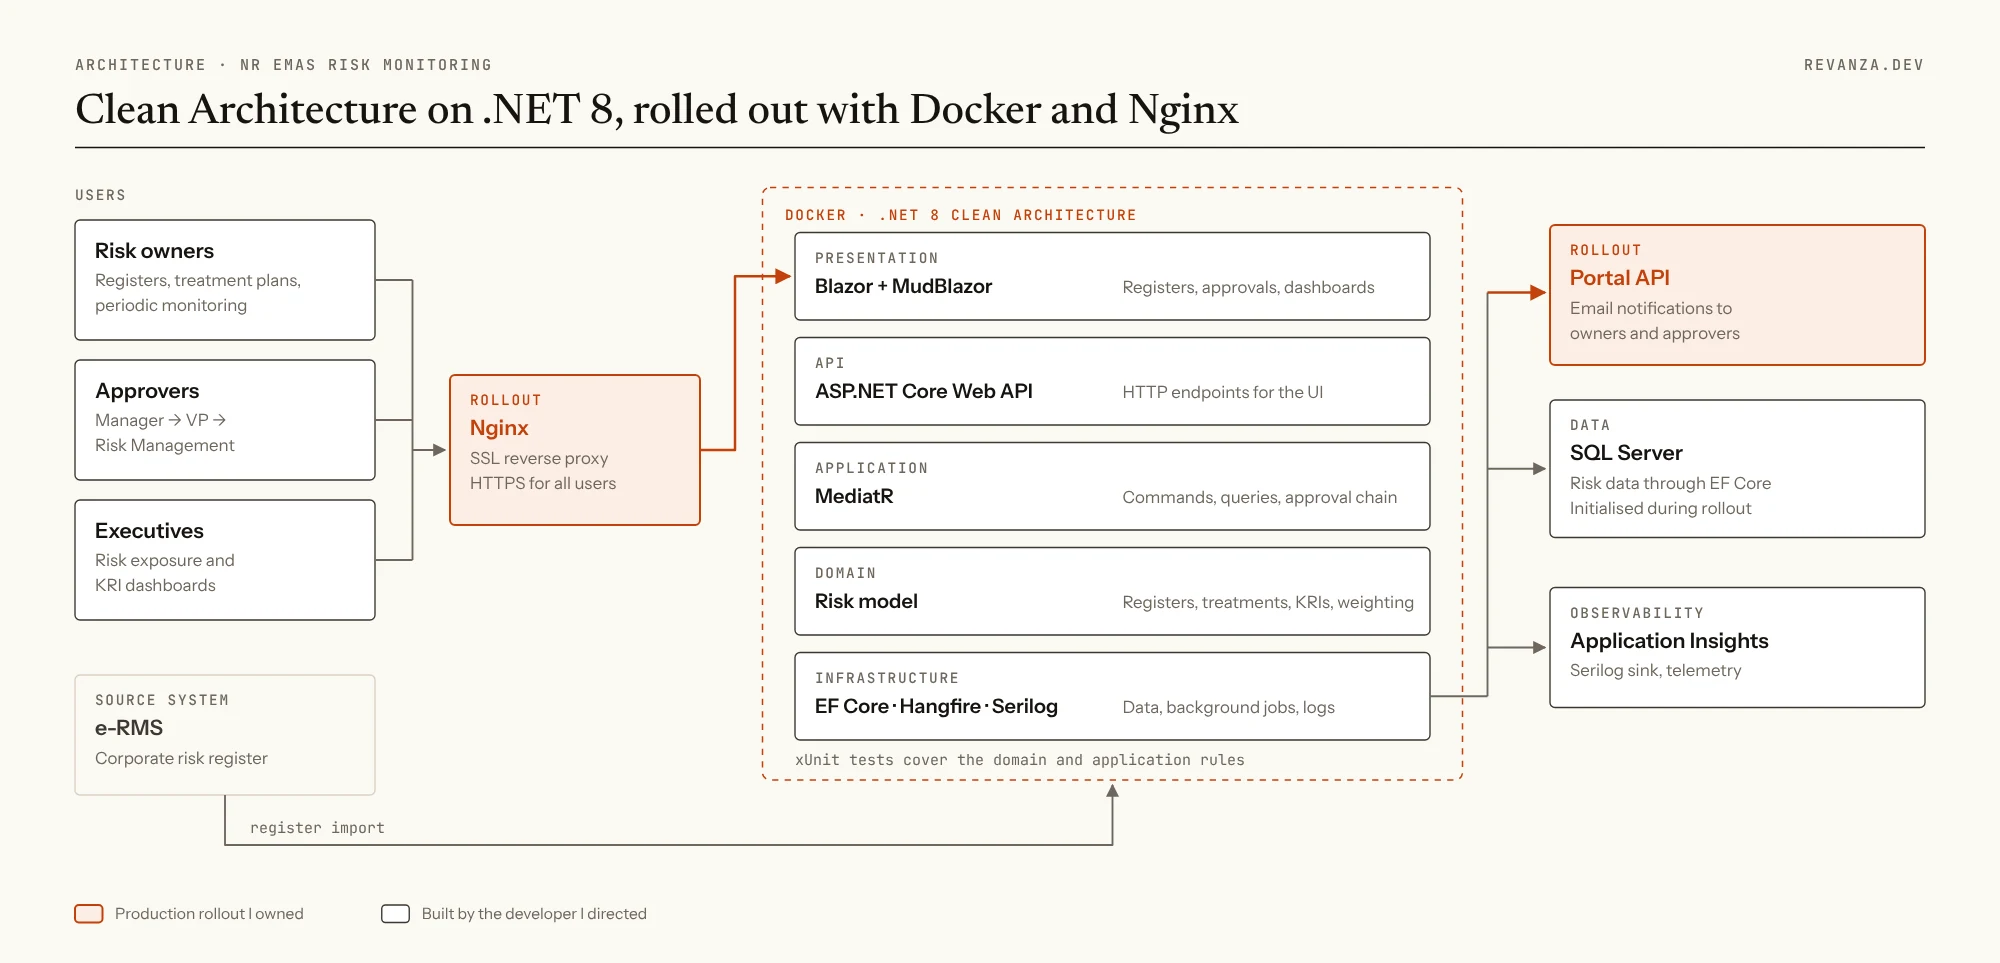
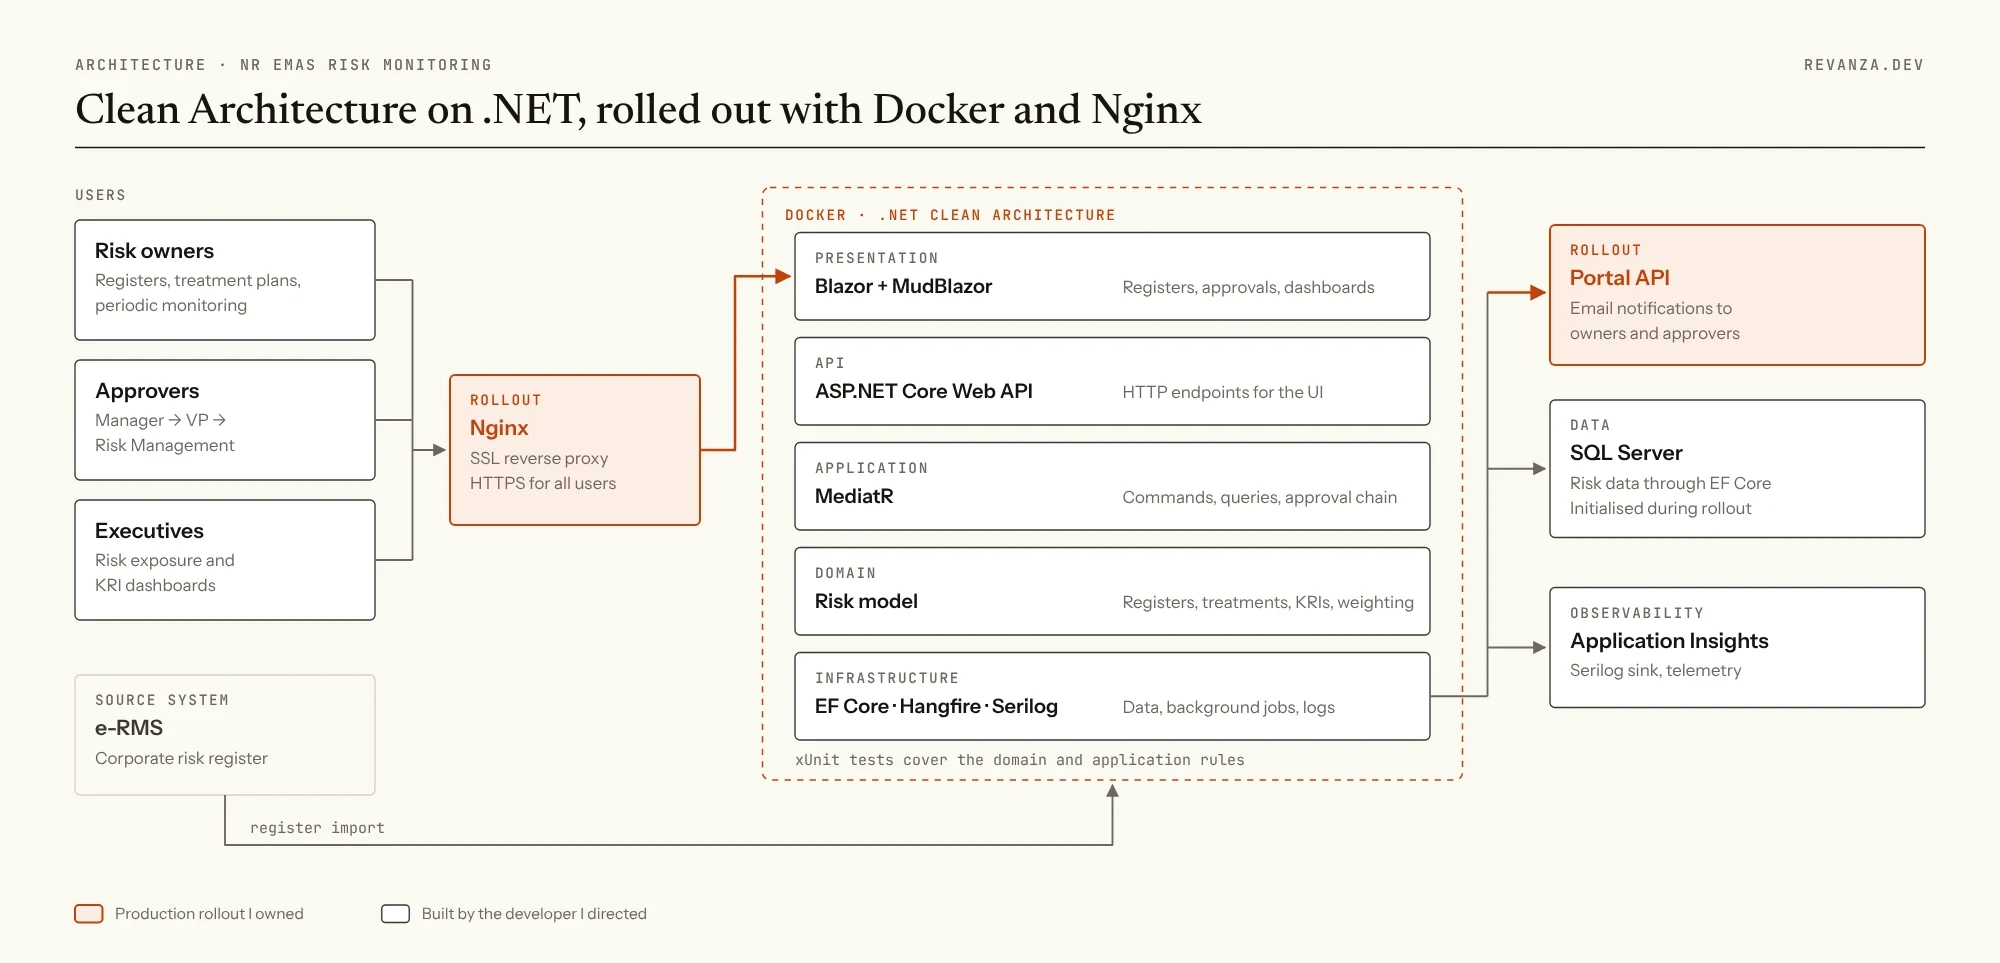
Drop .NET version numbers from the site and diagrams
Remove the "8" from .NET and ASP.NET Core mentions in the home page
practice list, the NR EMAS and DNDMind case studies, and the legacy
portfolio data. Re-render the two architecture diagrams without the
version in their titles and bump their cache-bust query.

Changed region(s): [[0.279, 0.0935, 0.62, 0.1558], [0.465, 0.2181, 0.558, 0.2492]]

diff --git a/src/portfolioData.js b/src/portfolioData.js
@@ -20,7 +20,7 @@ Select Projects:
 - FSRU Real-Time Operations Dashboard (PT Nusantara Regas – FSRU Division, 2025): Streamed 5,000+ sensor tags and surfaced near-instant KPIs; reduced latency from 12h to <5min. Orchestrated cross-team delivery (ops, instrumentation, IT). Tech: Apache Spark, MQTT Broker, SQL Server, Talend CDC, Power BI.
 - In-House SQL Warehouse & Data Lake (PT Nusantara Regas, 2025): Unified 20+ siloed apps into a lake-house (PostgreSQL/NiFi → BigQuery). Added scheduling, monitoring, and Slack alerting. Achieved ~30% infra cost savings. Tech: PostgreSQL, Apache NiFi 1.19, Google BigQuery, GCP Composer, Cloud Monitoring.
 - SINV – Warehouse Inventory Management System (2024): Replaced spreadsheet workflows with a web app; added analytics, barcode intake, and Power BI connectors. Cut input time by 60%, reduced error rate by 90%. Led requirements → deployment. Tech: Laravel 10, Blazor WASM, SQL Server, Power BI Embedded.
-- FP3/LP3 Invoice-Merge Dashboard (2025): Automated OCR extraction and merging of PR/PO PDFs; paperwork turnaround dropped from 3 days to same-day. Tech: ASP.NET Core 8.0, Tesseract OCR, SQL Server, Docker Compose.
+- FP3/LP3 Invoice-Merge Dashboard (2025): Automated OCR extraction and merging of PR/PO PDFs; paperwork turnaround dropped from 3 days to same-day. Tech: ASP.NET Core, Tesseract OCR, SQL Server, Docker Compose.
 - Tugboat Fuel Monitoring System (2023): Digital fuel logbook & anomaly alerting for offshore tugboats. Detected 12 fuel leak events, saving ~800L/month. Tech: React, Laravel 8, MySQL, Grafana.
 - DeFi Dashboard (Side Project, 2025): Next.js dashboard integrating MetaMask, RainbowKit, and ERC-20 balances. Tech: Next.js 14, RainbowKit, Ethers.js, Tailwind CSS.
 
